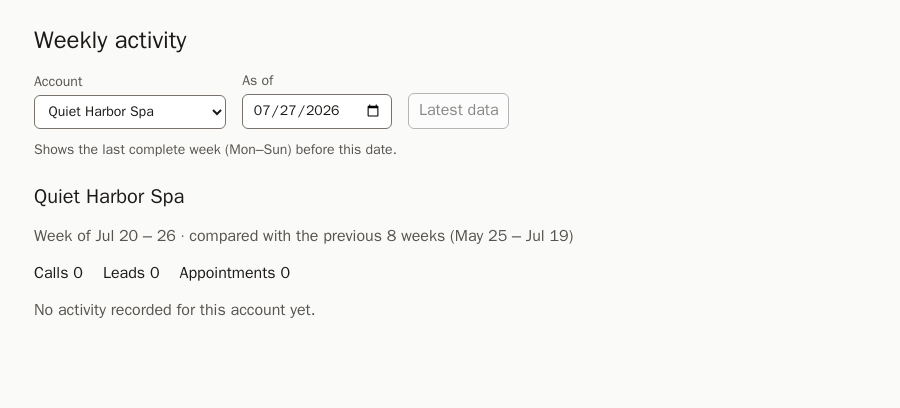
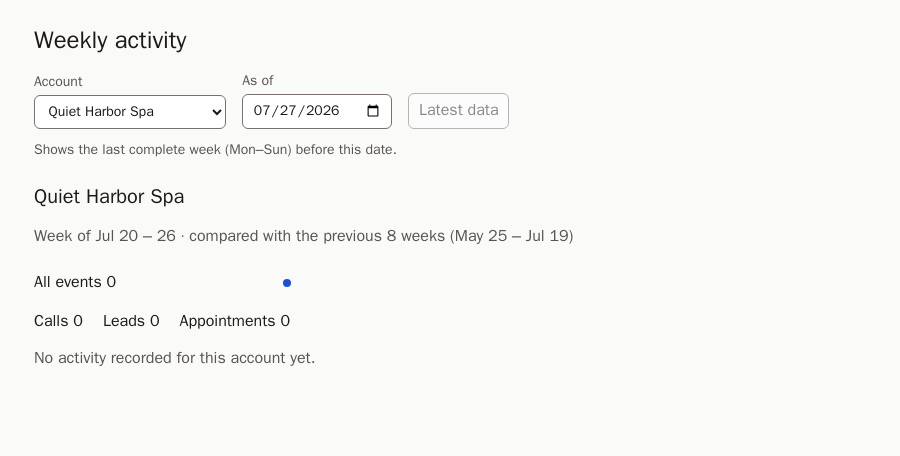
README and screenshots: sparklines
Why plain SVG over a chart library, the mouse-only tooltip as a known
limitation (values are in each chart's accessible label), keyboard
access moved to "With another day", and refreshed screenshots.

diff --git a/README.md b/README.md
@@ -76,6 +76,7 @@ Notable choices inside it:
 - **Raw SQL for the aggregation, Alembic's schema operations for the schema.** The weekly aggregation (removing duplicates, local-time conversion, `generate_series` to fill empty weeks) is one readable query with bound parameters in `relay/weekly.py`. An ORM would hide the part that most needs to be visible. The schema, indexes and the duplicate-free view `activity_events_dedup` are Alembic migrations.
 - **SQL buckets the data; pure Python applies the rule.** `relay/normality.py` has no database access and uses exact `Fraction` arithmetic, so a distance of exactly 0.3 is flagged.
 - **The URL is the only UI state.** Reload, share and back/forward all work, and there's no second copy of the state to drift. **The frontend renders and never ranks:** the API returns locations already ordered, with an explicit `flagged` field.
+- **Sparklines are plain SVG, no chart library.** Each is 9 points, one shaded band (the typical range) and one line, plus a hover tooltip. A library would be a large dependency for that, and plain SVG reuses the WCAG-checked colour tokens and is testable with Testing Library. Each chart is scaled to its own data and band. Week series come from the API, so the frontend still computes nothing. (PLAN.md §6 said no charts in v1; these were added after the UI review.)
 
 ## How the numbers were verified
 
@@ -95,13 +96,14 @@ Notable choices inside it:
 1. Tune `MIN_FLAG_DISTANCE` and `MIN_BASELINE_MEDIAN` with product, using the examples below and in "Try these".
 2. Add the missed-call rate per account, with a minimum number of calls.
 3. Make the default as-of the last week that has ended in every account's timezone, and show how fresh the data is (fixes the limitation below).
-4. Add a 9-week sparkline per location.
+4. Make sparkline values reachable from the keyboard (one tab stop per chart, arrow keys between weeks).
 5. Set up CI that runs `docker compose up` from scratch, both test suites, and one browser smoke test.
 
 ## Known limitations and open questions
 
 - **Account totals** (not defined in PLAN.md) are the account's own weekly counts per event type. Every event counts, including a new location's partial first week, so this week's total still equals the sum of the rows. They use the same median and range rule. They're context only and never flagged, even when well outside their range: Pacific Smiles appointments were 9 vs typical 4–6 in the week of Jul 13.
 - **The default as-of is the UTC date of the latest event (D2).** If data arrives up to a Sunday evening in a US timezone, the UTC date is already Monday, so the default picks a week that hasn't ended locally and can falsely flag it below typical. The seed isn't affected. Switching to today's date doesn't fix this if "today" is the UTC date: it has the same flaw. The default must pick the last week that has ended in every account's timezone (for example, using today's date in the westernmost zone).
+- **Sparkline tooltips are mouse-only.** Every week's count is in each chart's accessible label, so screen readers get all of it, but a sighted keyboard user can't see past weeks' counts. This week's count and the range are always visible as text.
 - **Questions for product:** see [PLAN.md §3](PLAN.md). Two more came up in review:
   - **The 0.3 threshold sits close to cases a person would call worrying.** Account 6 Site N, week of Apr 13: 1 event vs typical 3–8, distance 2/7 ≈ 0.29, so only "slightly below".
   - **Above and below typical share one highlight on purpose.** Whether more activity is good depends on the business.
